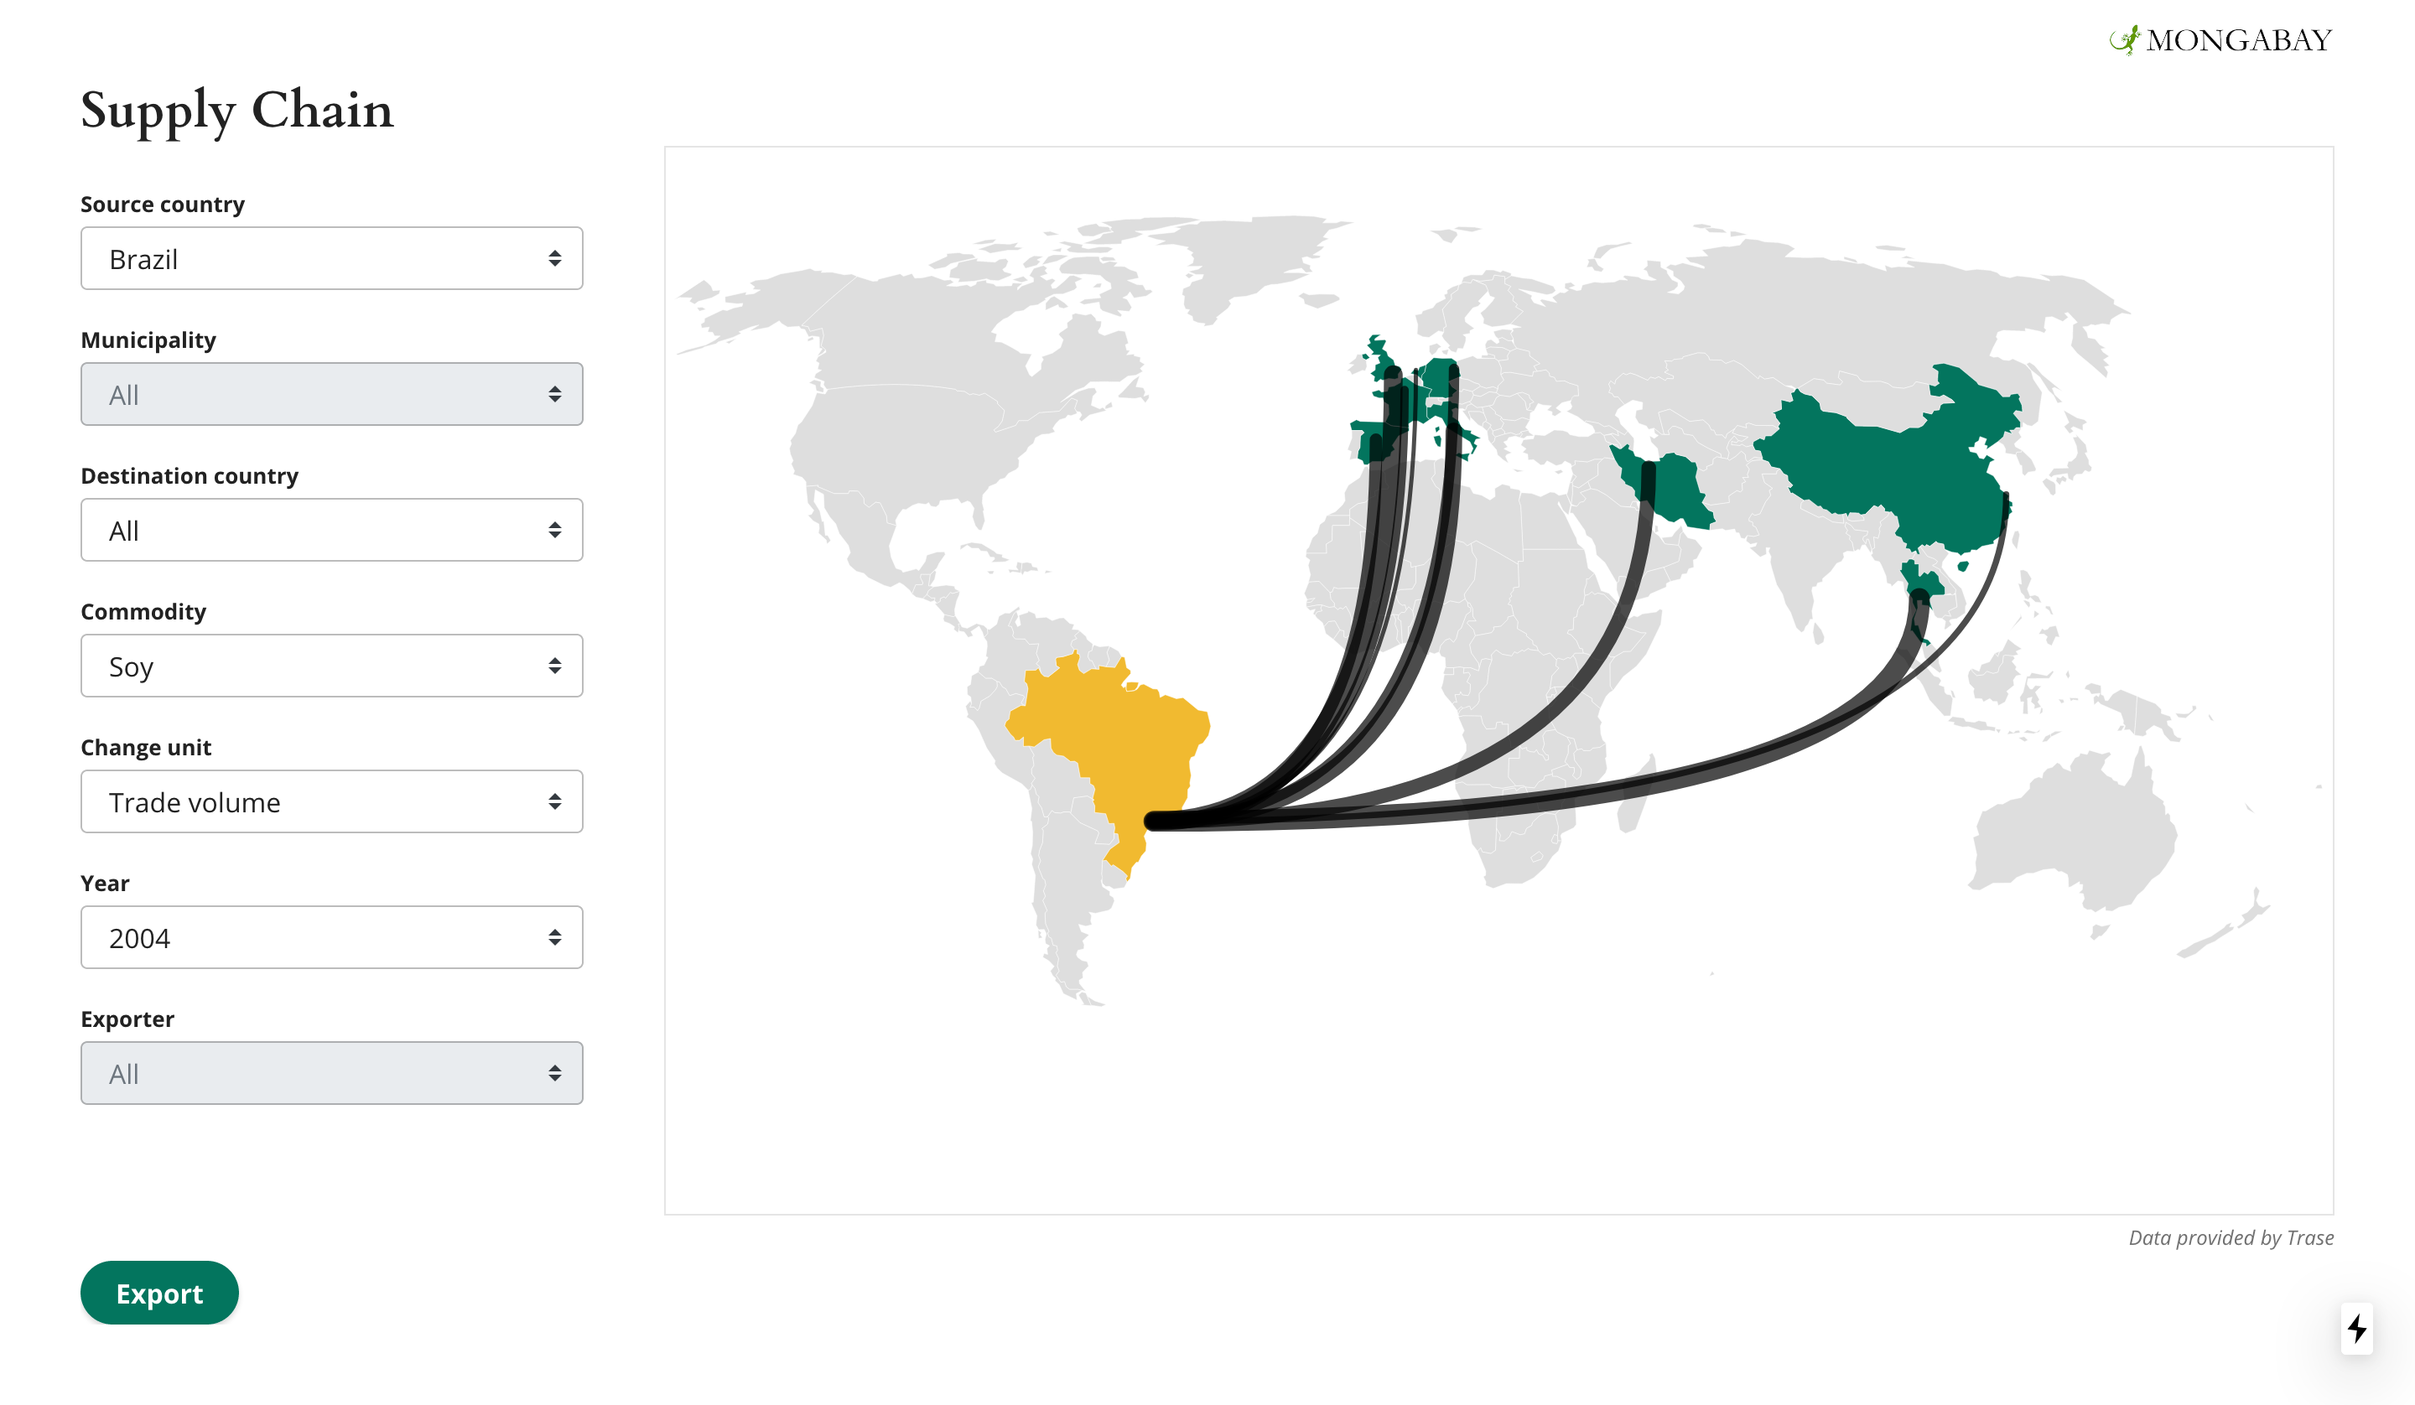
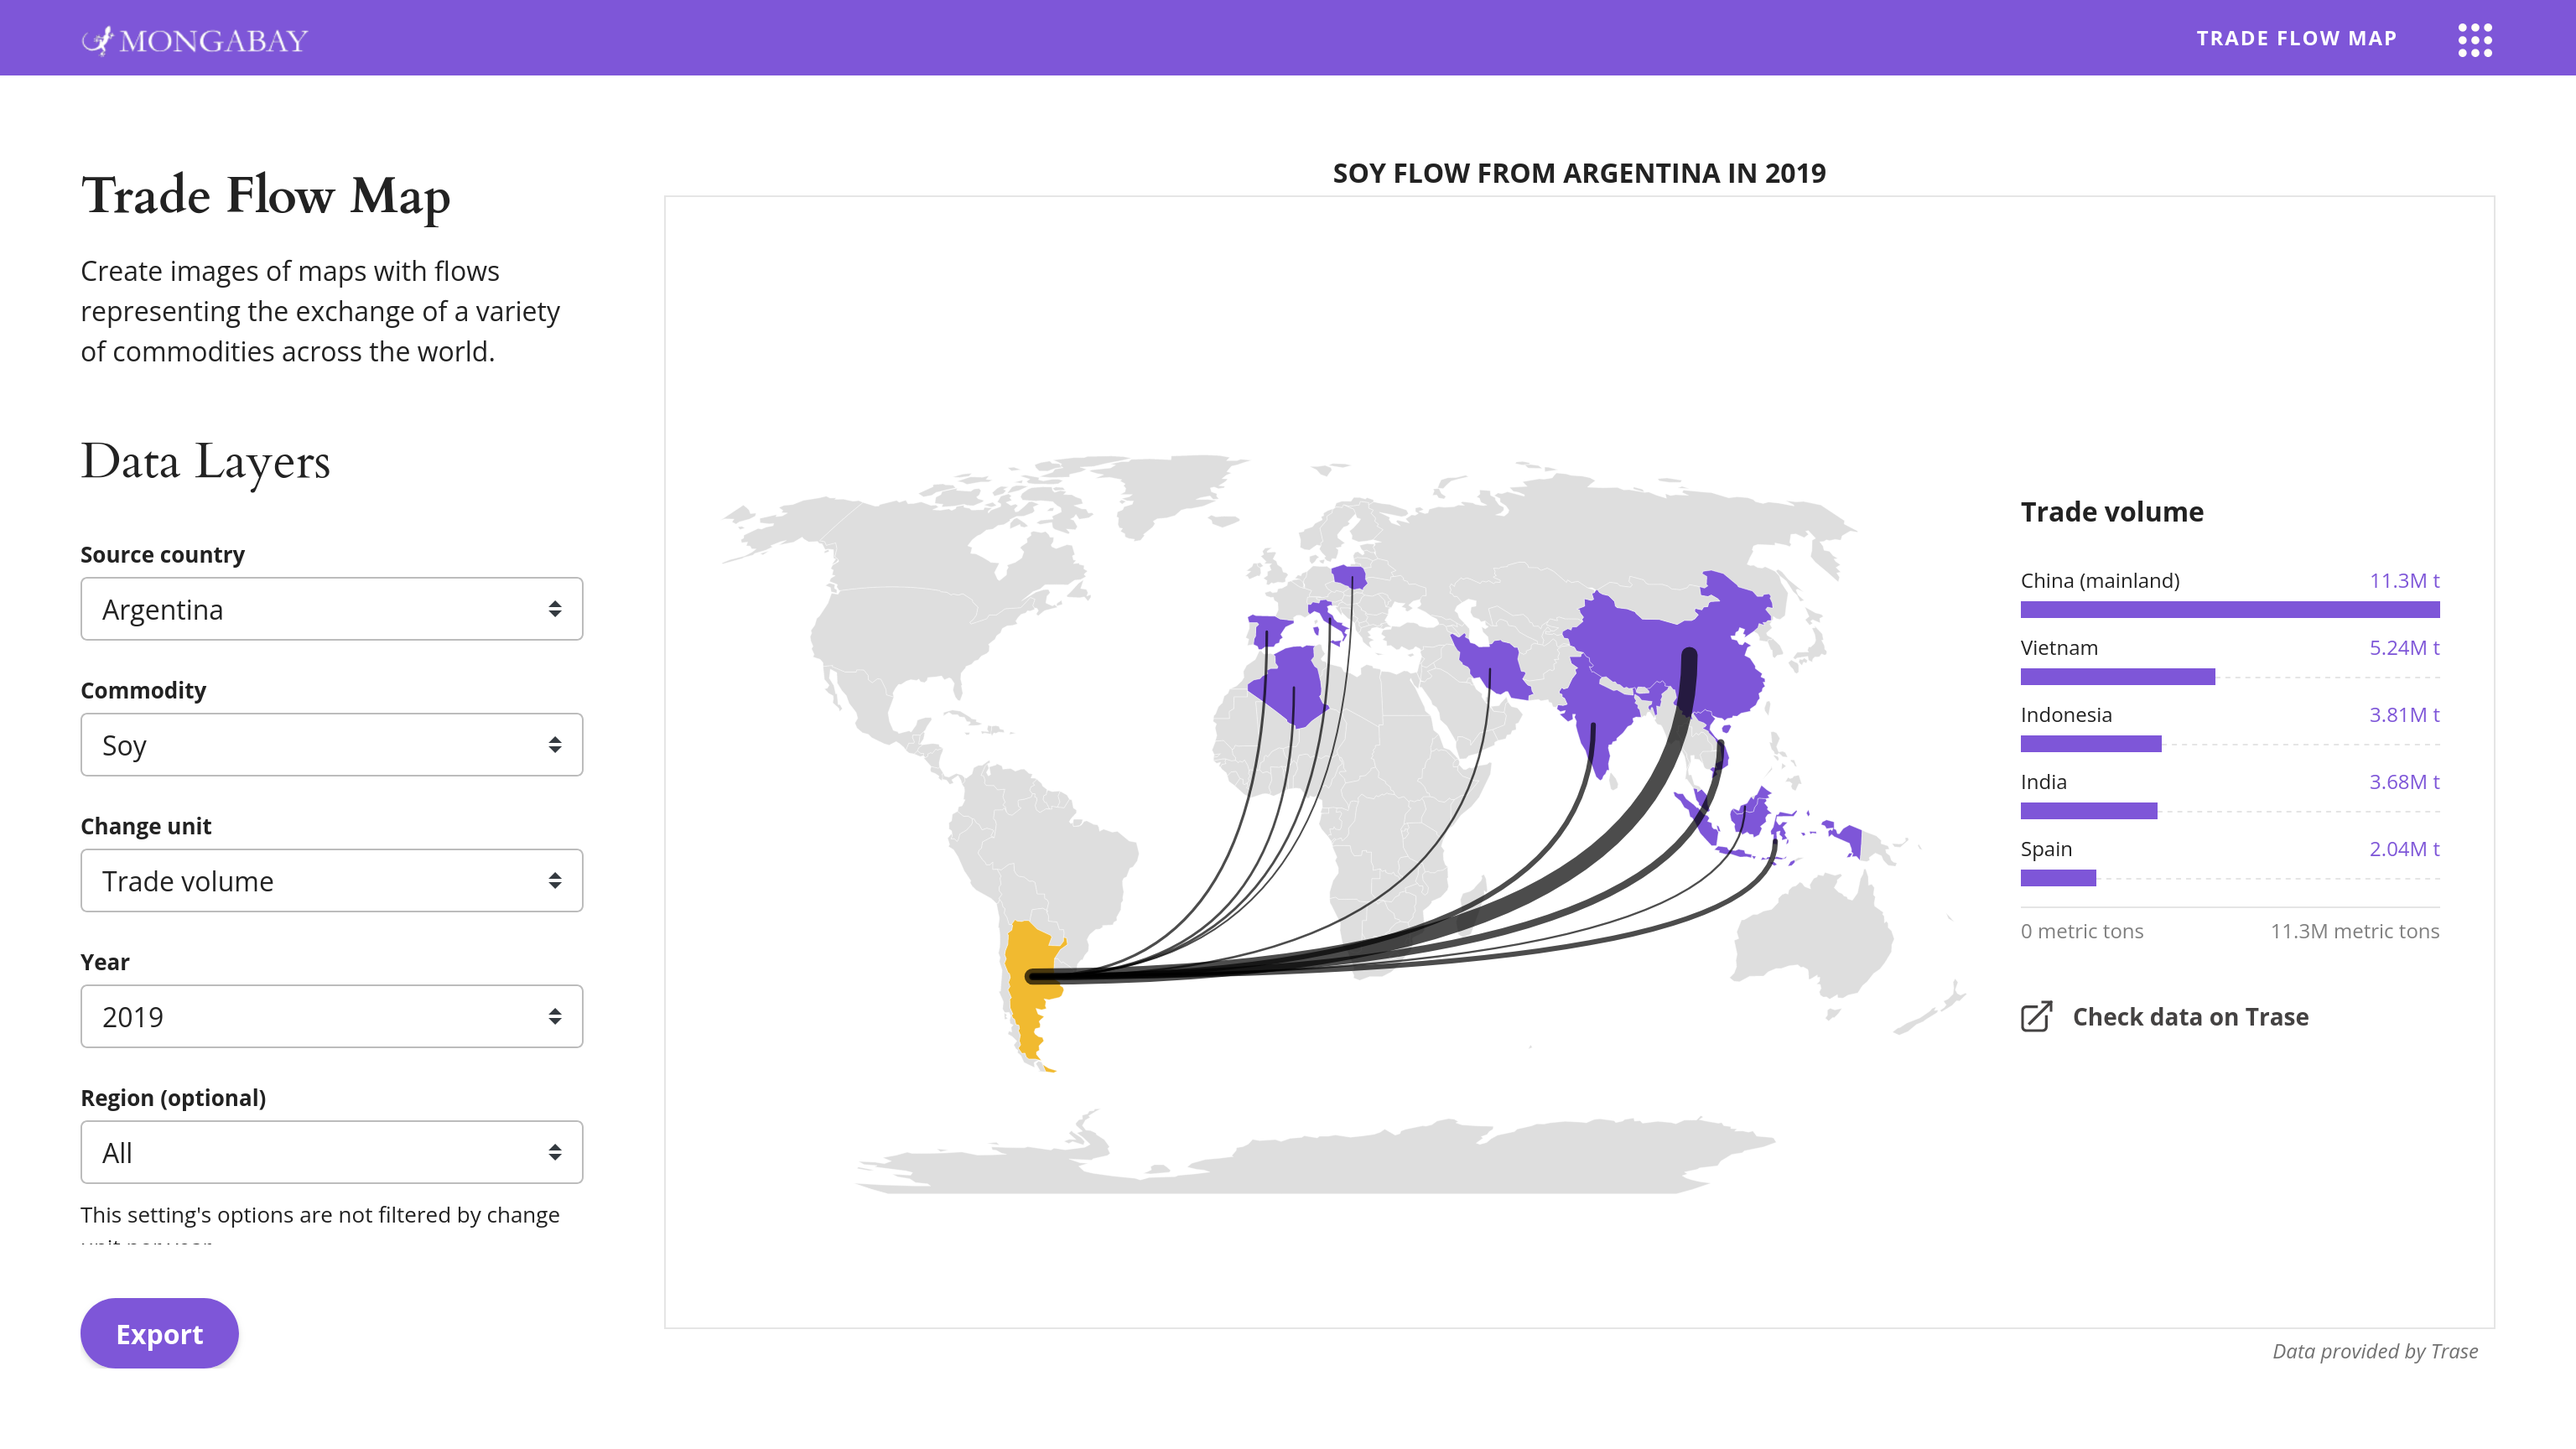
Update the name of the tools

diff --git a/components/icons/index.js b/components/icons/index.js
@@ -62,7 +62,7 @@ const Icons = () => (
           strokeLinecap="round"
         />
       </symbol>
-      <symbol id="icon-satellite" width="22" height="22" viewBox="0 0 22 22" fill="none">
+      <symbol id="icon-earth-atlas" width="22" height="22" viewBox="0 0 22 22" fill="none">
         <path
           d="M18.7783 3.22251C16.7014 1.14561 13.9379 0 10.9999 0C10.7628 0 10.5693 0.191568 10.5693 0.430554C10.5693 0.66954 10.7609 0.861108 10.9999 0.861108C16.5914 0.861108 21.1416 5.41132 21.1416 11.0028C21.1416 13.0683 20.5252 15.0542 19.3587 16.748C19.224 16.9433 19.2733 17.2108 19.4687 17.3454C19.5427 17.3966 19.628 17.4213 19.7115 17.4213C19.8481 17.4213 19.9827 17.3568 20.0662 17.2354C21.3313 15.3975 22.0008 13.2428 22.0008 11.0028C22.0008 8.06482 20.8571 5.30131 18.7783 3.22441V3.22251Z"
           fill="white"
@@ -76,7 +76,7 @@ const Icons = () => (
           fill="white"
         />
       </symbol>
-      <symbol id="icon-fire" width="22" height="20" viewBox="0 0 22 20" fill="none">
+      <symbol id="icon-weather-almanac" width="22" height="20" viewBox="0 0 22 20" fill="none">
         <path
           d="M18.3607 5.84931C18.2657 5.6786 18.0668 5.59413 17.8767 5.6434C17.6884 5.69268 17.5564 5.86339 17.5564 6.05873C17.5564 8.26737 17.025 10.0079 16.5375 11.1659C16.4196 10.1363 15.9866 8.88684 14.5735 7.94355C13.6759 7.3452 13.1445 6.62541 12.9931 5.80355C12.6869 4.15279 13.9065 2.4334 14.4908 1.60802C14.6984 1.31589 14.7847 1.19094 14.8234 1.06599C14.8638 0.935756 14.841 0.793206 14.76 0.682334C14.6791 0.571463 14.5506 0.506348 14.4133 0.506348C12.4036 0.506348 10.5011 1.14518 8.91197 2.35421C8.72367 2.49852 8.68671 2.76778 8.83102 2.95608C8.97533 3.14439 9.24459 3.18135 9.43289 3.03704C10.6507 2.11135 12.0709 1.55523 13.5827 1.40564C12.9174 2.36829 11.8158 4.15631 12.1484 5.95842C12.3437 7.01786 13.0001 7.92419 14.0965 8.6563C16.2348 10.0818 15.5977 12.3538 15.7121 13.0155C15.7455 13.2073 15.9022 13.3516 16.0958 13.3692C16.2858 13.3868 16.4653 13.276 16.5357 13.0982C16.7082 12.7286 18.0474 10.6608 18.3537 7.39095C18.4487 7.52294 18.5473 7.65669 18.6476 7.7922C19.8126 9.37784 21.1343 11.1764 21.1343 14.0204C21.1343 15.5356 20.638 17.1265 19.6982 18.6348H16.7082V17.9537L19.1597 15.5022C19.3269 15.335 19.3269 15.0622 19.1597 14.895C18.9925 14.7278 18.7197 14.7278 18.5525 14.895L16.7082 16.7394V15.1995C16.7082 14.9619 16.5164 14.7701 16.2788 14.7701C16.0412 14.7701 15.8494 14.9619 15.8494 15.1995V18.6365H11.4233V15.3772L13.8748 12.9257C14.042 12.7586 14.042 12.4858 13.8748 12.3186C13.7076 12.1514 13.4348 12.1514 13.2676 12.3186L11.4233 14.1629V8.75485C11.4233 8.51727 11.2315 8.32544 10.9939 8.32544C10.7563 8.32544 10.5645 8.51727 10.5645 8.75485V11.5847L8.72015 9.74038C8.55296 9.57319 8.28018 9.57319 8.11299 9.74038C7.9458 9.90756 7.9458 10.1803 8.11299 10.3475L10.5645 12.799V18.6365H6.26865V13.9095C6.26865 13.6719 6.07682 13.4801 5.83924 13.4801C5.60166 13.4801 5.40983 13.6719 5.40983 13.9095V15.4494L3.56549 13.605C3.39831 13.4379 3.12553 13.4379 2.95834 13.605C2.79115 13.7722 2.79115 14.045 2.95834 14.2122L5.40983 16.6637V18.6348H2.24559C1.33574 17.167 0.855296 15.5761 0.855296 14.0204C0.855296 11.37 1.72291 9.02763 2.4515 7.52646C2.84219 6.7222 3.2364 6.06225 3.55493 5.57829C3.53206 7.2484 3.50214 9.53271 5.49255 11.5231C5.61574 11.6463 5.80053 11.6833 5.96067 11.6164C6.12082 11.5495 6.22641 11.3929 6.22641 11.2187V9.49751C6.22641 8.20753 6.51855 6.97562 7.09755 5.83699C7.2049 5.6258 7.12043 5.3671 6.90924 5.25975C6.69806 5.1524 6.43936 5.23687 6.332 5.44806C5.69317 6.70812 5.36936 8.07202 5.36936 9.49751V10.022C4.37503 8.52079 4.39791 6.91755 4.41727 5.58533C4.42431 5.13832 4.42959 4.71419 4.39439 4.33934C4.40495 4.02608 4.09345 3.81314 3.80835 3.92225C3.33495 4.10352 2.04321 6.42478 1.77219 6.96858C0.964408 8.58942 0 11.1272 0 14.0204C0 15.8119 0.571957 17.6387 1.65428 19.2982C1.73347 19.4197 1.86898 19.4936 2.01505 19.4936H19.9393C20.0854 19.4936 20.2191 19.4197 20.3001 19.2982C21.4123 17.5929 22.0001 15.7679 22.0001 14.0204C22.0001 10.8948 20.5289 8.89212 19.3462 7.2836C18.9731 6.775 18.6194 6.29455 18.3677 5.84579L18.3607 5.84931Z"
           fill="white"
@@ -86,7 +86,7 @@ const Icons = () => (
           fill="white"
         />
       </symbol>
-      <symbol id="icon-reforestation" width="22" height="22" viewBox="0 0 22 22" fill="none">
+      <symbol id="icon-reforestation-app" width="22" height="22" viewBox="0 0 22 22" fill="none">
         <mask id="mask0_812_3213" maskUnits="userSpaceOnUse" x="0" y="0" width="22" height="22">
           <path d="M21.7437 0.249268H0.256226V21.7505H21.7437V0.249268Z" fill="white" />
         </mask>
@@ -101,7 +101,7 @@ const Icons = () => (
           fill="white"
         />
       </symbol>
-      <symbol id="icon-supply" width="24" height="24" viewBox="0 0 24 24" fill="none">
+      <symbol id="icon-trade-flow-map" width="24" height="24" viewBox="0 0 24 24" fill="none">
         <path
           d="M23.0626 13.3326L22.5929 13.5003C21.6348 13.8417 20.8629 14.5742 20.4739 15.5137C20.0848 16.4532 20.1117 17.5189 20.5484 18.4356L20.7615 18.8846L18.8784 20.7677L18.4294 20.5546C17.5106 20.118 16.447 20.0911 15.5075 20.4801C14.568 20.8691 13.8355 21.641 13.4941 22.5991L13.3264 23.0688H10.6653L10.4977 22.5991C10.1562 21.641 9.42369 20.8691 8.48422 20.4801C7.54475 20.0911 6.48112 20.118 5.56234 20.5546L5.1133 20.7677L3.23021 18.8846L3.44335 18.4356C3.87998 17.5168 3.90688 16.4532 3.51785 15.5137C3.12881 14.5742 2.35696 13.8417 1.39886 13.5003L0.929126 13.3326V10.6715L1.39886 10.5039C2.35696 10.1624 3.12881 9.4299 3.51785 8.49043C3.90688 7.55096 3.87998 6.48526 3.44335 5.56855L3.23021 5.1195L5.1133 3.23642L5.56234 3.44956C6.48112 3.88619 7.54475 3.91309 8.48422 3.52406C9.42369 3.13502 10.1562 2.36317 10.4977 1.40507L10.6653 0.935333H13.3264L13.4941 1.40507C13.8355 2.36317 14.568 3.13502 15.5075 3.52406C16.447 3.91309 17.5106 3.88619 18.4294 3.44956L18.8784 3.23642L20.7615 5.1195L20.5484 5.56855C20.1117 6.48733 20.0848 7.55096 20.4739 8.49043C20.8629 9.4299 21.6348 10.1624 22.5929 10.5039L23.0626 10.6715V13.3326ZM23.6875 9.89757L22.9074 9.62028C22.1997 9.36782 21.6286 8.82566 21.3409 8.13037C21.0533 7.43508 21.074 6.64873 21.3968 5.97L21.7527 5.2209C21.8376 5.04087 21.8003 4.82773 21.6617 4.68909L19.3109 2.33833C19.1702 2.19762 18.9571 2.16037 18.7791 2.24728L18.03 2.60321C17.3513 2.92602 16.5629 2.94672 15.8696 2.65908C15.1743 2.37144 14.6322 1.80031 14.3797 1.0926L14.1024 0.312468C14.0362 0.126229 13.8583 0 13.6617 0H10.3383C10.1397 0 9.96379 0.124159 9.89757 0.312468L9.62028 1.0926C9.36782 1.80031 8.82566 2.37144 8.13037 2.65908C7.43508 2.94672 6.64873 2.92602 5.97 2.60321L5.2209 2.24728C5.04087 2.16244 4.82773 2.19969 4.68908 2.33833L2.33833 4.68909C2.19762 4.8298 2.16037 5.04294 2.24728 5.2209L2.60321 5.97C2.92602 6.64873 2.94672 7.43715 2.65908 8.13037C2.37144 8.82566 1.80031 9.36782 1.0926 9.62028L0.312468 9.89757C0.126229 9.96379 0 10.1417 0 10.3383V13.6617C0 13.8603 0.124159 14.0362 0.312468 14.1024L1.0926 14.3797C1.80031 14.6322 2.37144 15.1743 2.65908 15.8696C2.94672 16.5649 2.92602 17.3513 2.60321 18.03L2.24728 18.7791C2.16244 18.9591 2.19969 19.1723 2.33833 19.3109L4.68908 21.6617C4.8298 21.8024 5.04294 21.8396 5.2209 21.7527L5.97 21.3968C6.64873 21.074 7.43714 21.0533 8.13037 21.3409C8.82566 21.6286 9.36782 22.1997 9.62028 22.9074L9.89757 23.6875C9.96379 23.8738 10.1417 24 10.3383 24H13.6617C13.8603 24 14.0362 23.8758 14.1024 23.6875L14.3797 22.9074C14.6322 22.1997 15.1743 21.6286 15.8696 21.3409C16.5649 21.0533 17.3513 21.074 18.03 21.3968L18.7791 21.7527C18.9591 21.8376 19.1723 21.8003 19.3109 21.6617L21.6617 19.3109C21.8024 19.1702 21.8396 18.9571 21.7527 18.7791L21.3968 18.03C21.074 17.3513 21.0533 16.5629 21.3409 15.8696C21.6286 15.1743 22.1997 14.6322 22.9074 14.3797L23.6875 14.1024C23.8738 14.0362 24 13.8583 24 13.6617V10.3383C24 10.1397 23.8758 9.96379 23.6875 9.89757Z"
           fill="white"

diff --git a/components/header/constants.js b/components/header/constants.js
@@ -2,43 +2,29 @@ export const COLORS = ['#03755E', '#184B95', '#A01200', '#7E56D8'];
 
 export const TOOLS = [
   {
-    id: 'satellite',
-    title: 'Satellite',
-    description:
-      'Create images of maps using a wide set of basemaps, contextual layers and data layers or explore the map presets that provide information about topics like conservation.',
+    id: 'earth-atlas',
+    name: 'Earth Atlas',
     color: COLORS[1],
-    image: '/images/satellite-tool.png',
-    name: 'Satellite Tool',
     url: 'https://maps.mongabay.com',
   },
   {
-    id: 'fire',
-    title: 'Fire Drought',
-    description:
-      'Explore and report temporal interactions between annual precipitation and fire occurrences at national and subnational scales.',
+    id: 'fire-weather-almanac',
+    name: 'Fire Weather Almanac',
     color: COLORS[2],
     image: '/images/fire-tool.png',
-    name: 'Fire Drought',
     url: 'https://charts.mongabay.com',
   },
   {
-    id: 'reforestation',
+    id: 'reforestation-app',
     title: 'Reforestation App',
-    description:
-      'Mongabay’s global directory of reforestation and tree-planting projects is a starting point for people wanting to support reforestation.',
     color: COLORS[0],
-    image: '/images/reforestation-tool.png',
     name: 'Reforestation App',
     url: 'https://reforestation.app',
   },
   {
-    id: 'supply',
-    title: 'Supply Chain',
-    description:
-      'Create images of maps with flows representing the exchange of a variety of commodities across the world.',
+    id: 'trade-flow-map',
+    name: 'Trade Flow Map',
     color: COLORS[3],
-    image: '/images/supply-tool.png',
-    name: 'Supply Chain',
     url: 'https://chains.mongabay.com',
   },
 ];

diff --git a/components/header/menu/index.js b/components/header/menu/index.js
@@ -40,7 +40,7 @@ const HeaderMenu = () => {
             <span className="sr-only">close navigation menu</span>
             <Icon name="menu-close" className="header__menu__content__wrap__close-btn__icon" />
           </button>
-          <p className="header__menu__content__wrap__title">Mongabay Chart Tools</p>
+          <p className="header__menu__content__wrap__title">Data Journalism Tools</p>
           <ul className="space-y-6">
             {TOOLS.map(({ name, url, id, color }) => (
               <li key={name}>
@@ -50,7 +50,7 @@ const HeaderMenu = () => {
                       backgroundColor: color,
                     }}
                   >
-                    <Icon className={cx(id === 'supply' ? '--lg' : '--md')} name={id} />
+                    <Icon className={cx(id === 'trade-flow-map' ? '--lg' : '--md')} name={id} />
                   </div>
                   {name}
                 </a>

diff --git a/components/tool/sidebar/component.jsx b/components/tool/sidebar/component.jsx
@@ -50,7 +50,7 @@ const Sidebar = ({
     <aside className="c-tool-sidebar">
       <DownloadSuccessModal open={downloadModalOpen} onClose={() => setDownloadModalOpen(false)} />
       <div className="content">
-        <h1>Supply Chain Data Tool</h1>
+        <h1>Trade Flow Map</h1>
         <p>
           Create images of maps with flows representing the exchange of a variety of commodities
           across the world.

diff --git a/components/head/component.js b/components/head/component.js
@@ -4,9 +4,7 @@ import Head from 'next/head';
 
 const HeadComponent = ({ title, description }) => (
   <Head>
-    <title key="title">
-      {title ? `${title} | Supply Chain Data Tool` : 'Supply Chain Data Tool'}
-    </title>
+    <title key="title">{title ? `${title} | Trade Flow Map` : 'Trade Flow Map'}</title>
     <meta
       key="description"
       name="description"

diff --git a/components/header/component.js b/components/header/component.js
@@ -14,7 +14,7 @@ const Header = () => {
           />
         </div>
         <div className="header__content">
-          <p>supply chain Tool</p>
+          <p className="header__content__name">Trade Flow Map</p>
           <HeaderMenu />
         </div>
       </div>

diff --git a/components/header/style.scss b/components/header/style.scss
@@ -27,6 +27,10 @@
       letter-spacing: 0.96px;
       text-transform: uppercase;
     }
+
+    &__name {
+      text-transform: uppercase;
+    }
   }
   &__menu {
     flex-shrink: 0;

diff --git a/README.md b/README.md
@@ -1,6 +1,6 @@
-# supply-chain-chart
+# Trade Flow Map
 
-Supply chain chart is tool that generates flow map images for Mongabay's articles.
+Create images of maps with flows representing the exchange of a variety of commodities across the world.
 
 <p align="center">
   <img src="docs/assets/hero.png" alt="Supply chain chart" />
